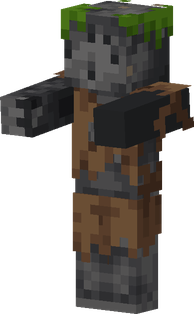
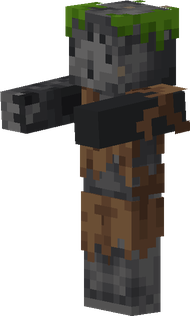
Show reaching mobs from further round the side
At 35 degrees a zombie's near arm points straight at the camera and reads
as missing. Each pose now carries its default camera; reaching mobs use
50 degrees, where both arms show.

diff --git a/tools/render/src/models.js b/tools/render/src/models.js
@@ -47,11 +47,13 @@ const skeleton = {
 export const MODELS = { humanoid, player, skeleton }
 
 // Poses: rotations in radians per part, in this renderer's space (x < 0 raises a limb forward,
-// z < 0 swings the right arm outward).
+// z < 0 swings the right arm outward), and the camera that shows the pose best (a render's own
+// camera wins). Reaching arms need a view from further round the side, or the near arm points
+// straight at the camera and looks missing.
 export const POSES = {
-  stand: { right_arm: [0, 0, -0.1], left_arm: [0, 0, 0.1] },
-  reach: { right_arm: [-1.5, 0, 0], left_arm: [-1.5, 0, 0] },  // zombies, husks, drowned
-  walk: { right_arm: [0.35, 0, -0.1], left_arm: [-0.35, 0, 0.1], right_leg: [-0.3, 0, 0], left_leg: [0.3, 0, 0] },
+  stand: { parts: { right_arm: [0, 0, -0.1], left_arm: [0, 0, 0.1] }, camera: { yaw: 35 } },
+  reach: { parts: { right_arm: [-1.5, 0, 0], left_arm: [-1.5, 0, 0] }, camera: { yaw: 50 } },  // zombies, husks, drowned
+  walk: { parts: { right_arm: [0.35, 0, -0.1], left_arm: [-0.35, 0, 0.1], right_leg: [-0.3, 0, 0], left_leg: [0.3, 0, 0] }, camera: { yaw: 35 } },
 }
 
 // Equipment layers (armor): the humanoid model inflated, as HumanoidArmorModel does.

diff --git a/tools/render/src/entity.js b/tools/render/src/entity.js
@@ -83,7 +83,9 @@ export async function renderEntity(job, canvas) {
       }
     }
   }
-  for (const [name, rot] of Object.entries(POSES[job.pose ?? 'stand'] ?? {})) if (parts[name]) parts[name].rotation.set(...rot)
+  const pose = POSES[job.pose ?? 'stand']
+  if (!pose) throw new Error('unknown pose ' + job.pose)
+  for (const [name, rot] of Object.entries(pose.parts)) if (parts[name]) parts[name].rotation.set(...rot)
 
   scene.add(new THREE.AmbientLight(0xffffff, 1.6))
   const sun = new THREE.DirectionalLight(0xffffff, 1.4)
@@ -91,7 +93,7 @@ export async function renderEntity(job, canvas) {
   scene.add(sun)
 
   // camera from the front-right, then fit an orthographic frustum to what's in the scene
-  const cam = job.camera ?? {}
+  const cam = { ...pose.camera, ...job.camera }
   const yaw = (cam.yaw ?? 35) * Math.PI / 180, pitch = (cam.pitch ?? 10) * Math.PI / 180
   const camera = new THREE.OrthographicCamera(-1, 1, 1, -1, 0.1, 1000)
   camera.position.set(Math.sin(yaw) * Math.cos(pitch) * 200, 16 + Math.sin(pitch) * 200, Math.cos(yaw) * Math.cos(pitch) * 200)
